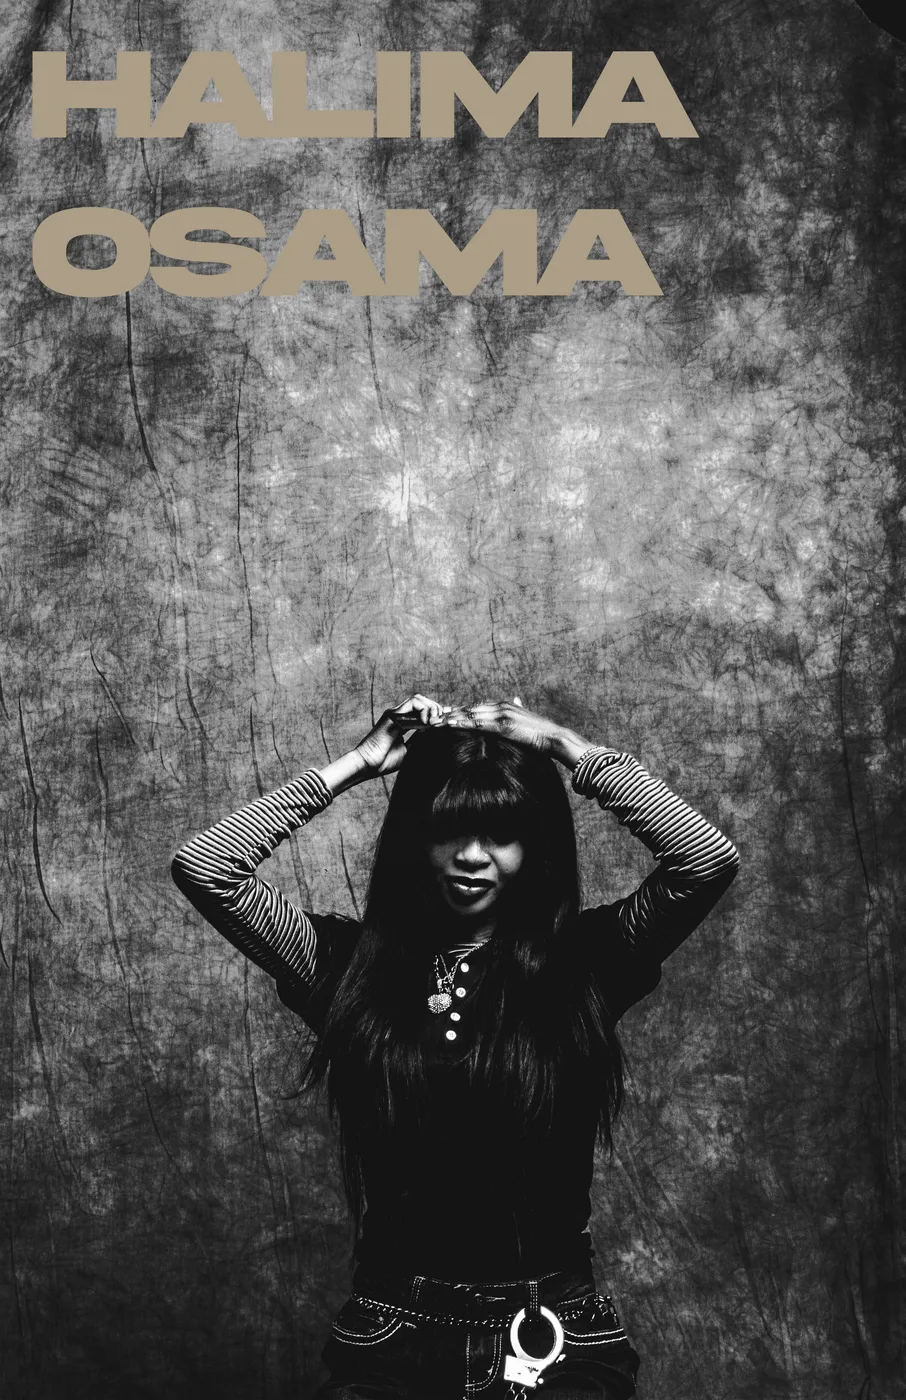
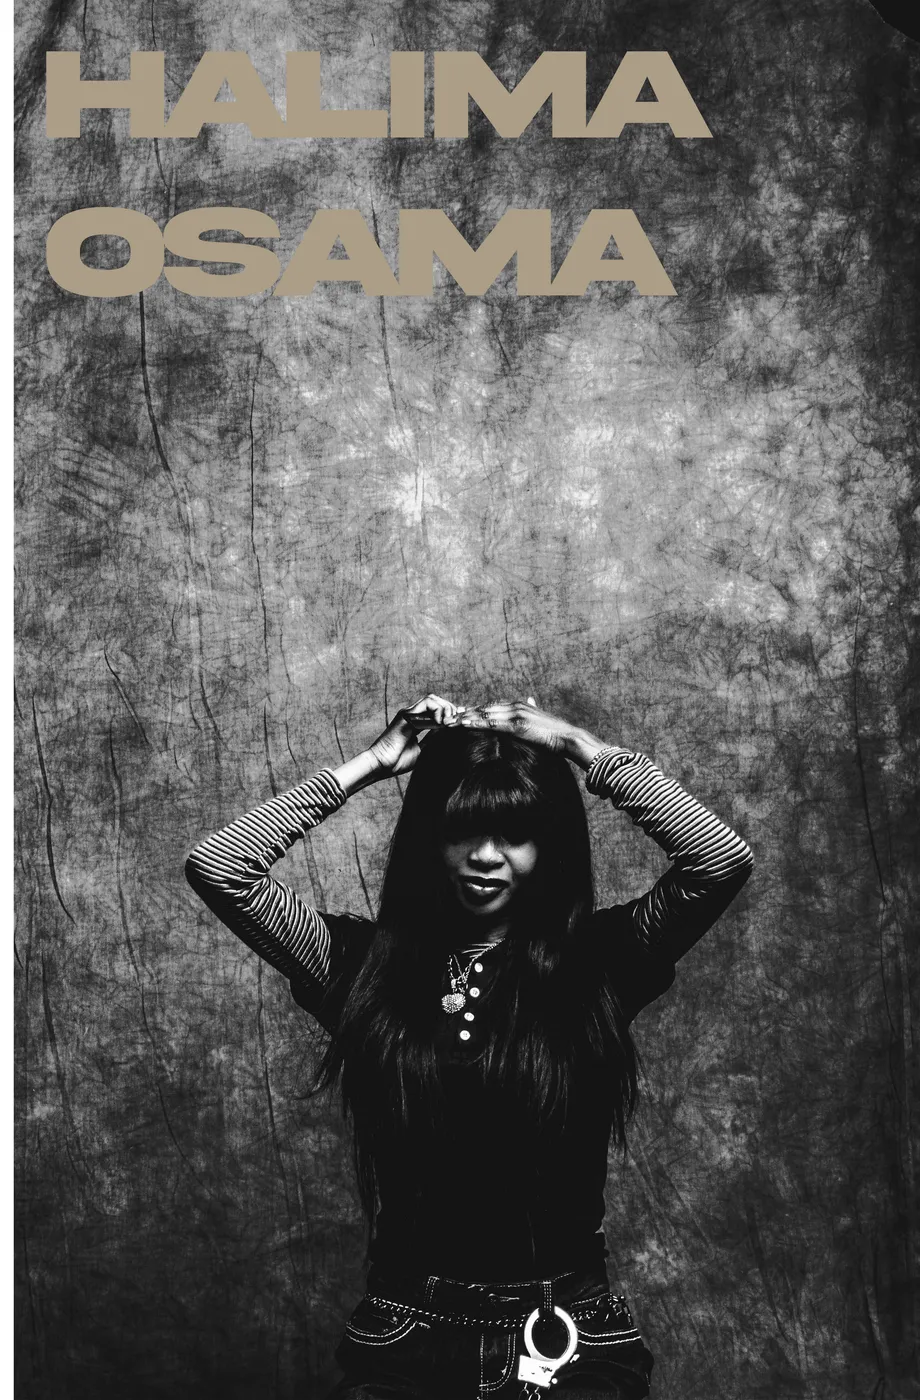
Magazine prototype: keep the designed white gutter between spread pages
Claude-Session: https://claude.ai/code/session_01B1BA231vB9qzxVmQQeCkrD

diff --git a/prototypes/heart-magazine/index.html b/prototypes/heart-magazine/index.html
@@ -47,7 +47,7 @@
       }
       #stage {
         /* Fit a two-page spread inside the screen height */
-        max-width: min(1100px, calc((100dvh - 220px) * 1.29));
+        max-width: min(1100px, calc((100dvh - 220px) * 1.31));
         margin: 0 auto;
         padding: 16px;
       }
@@ -92,7 +92,7 @@
           display: none;
         }
         #stage {
-          max-width: calc((100dvh - 150px) * 1.29);
+          max-width: calc((100dvh - 150px) * 1.31);
         }
       }
       /* Phones: one page at a time (the book switches to single pages below 360px of width) */
@@ -120,7 +120,7 @@
 
     <script src="https://cdn.jsdelivr.net/npm/page-flip@2.0.7/dist/js/page-flip.browser.js"></script>
     <script>
-      // One image per page, in reading order. First and last are the covers. Keep every page the same shape (here 906×1400).
+      // One image per page, in reading order. First and last are the covers. Keep every page the same shape (here 920×1400).
       const PAGES = [
         'pages/01.svg',
         'pages/02.webp',
@@ -147,7 +147,7 @@
           })
           .join('');
         book = new St.PageFlip(el, {
-          width: 453,
+          width: 460,
           height: 700,
           size: 'stretch',
           minWidth: 180,
